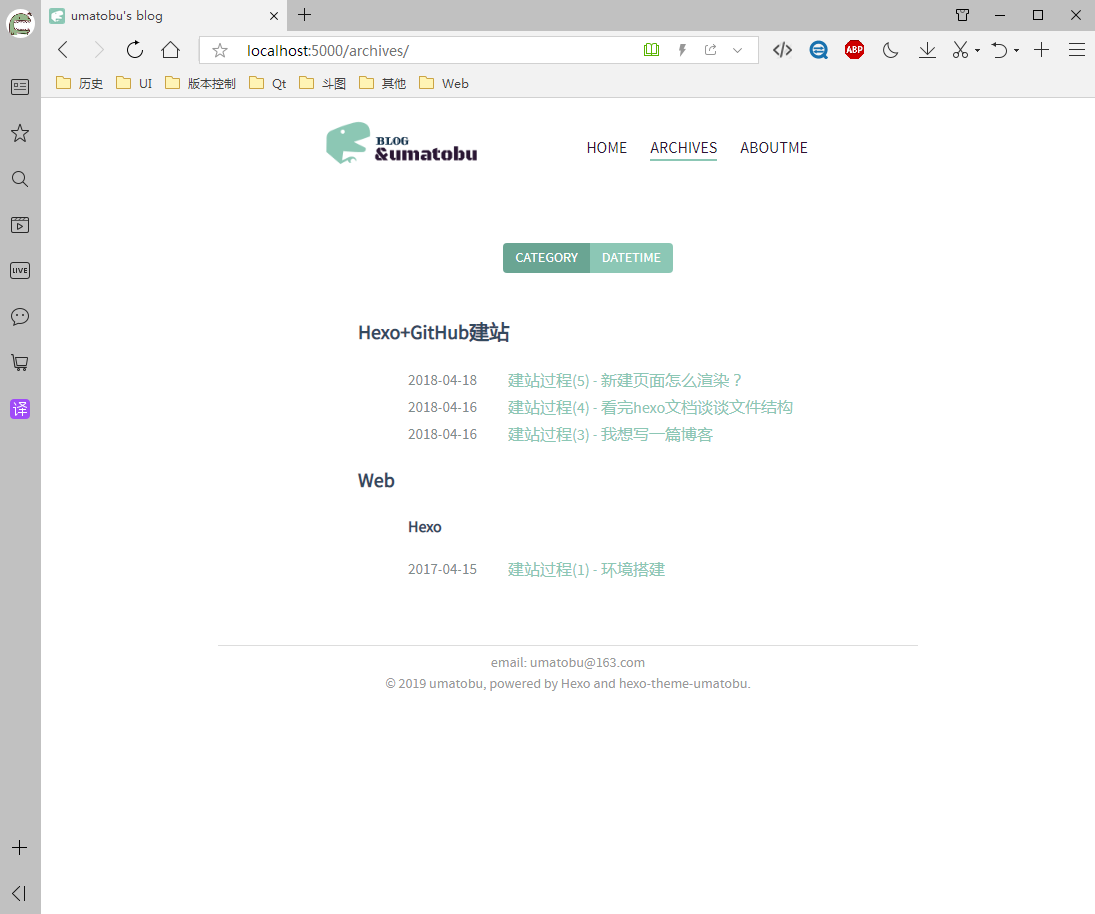
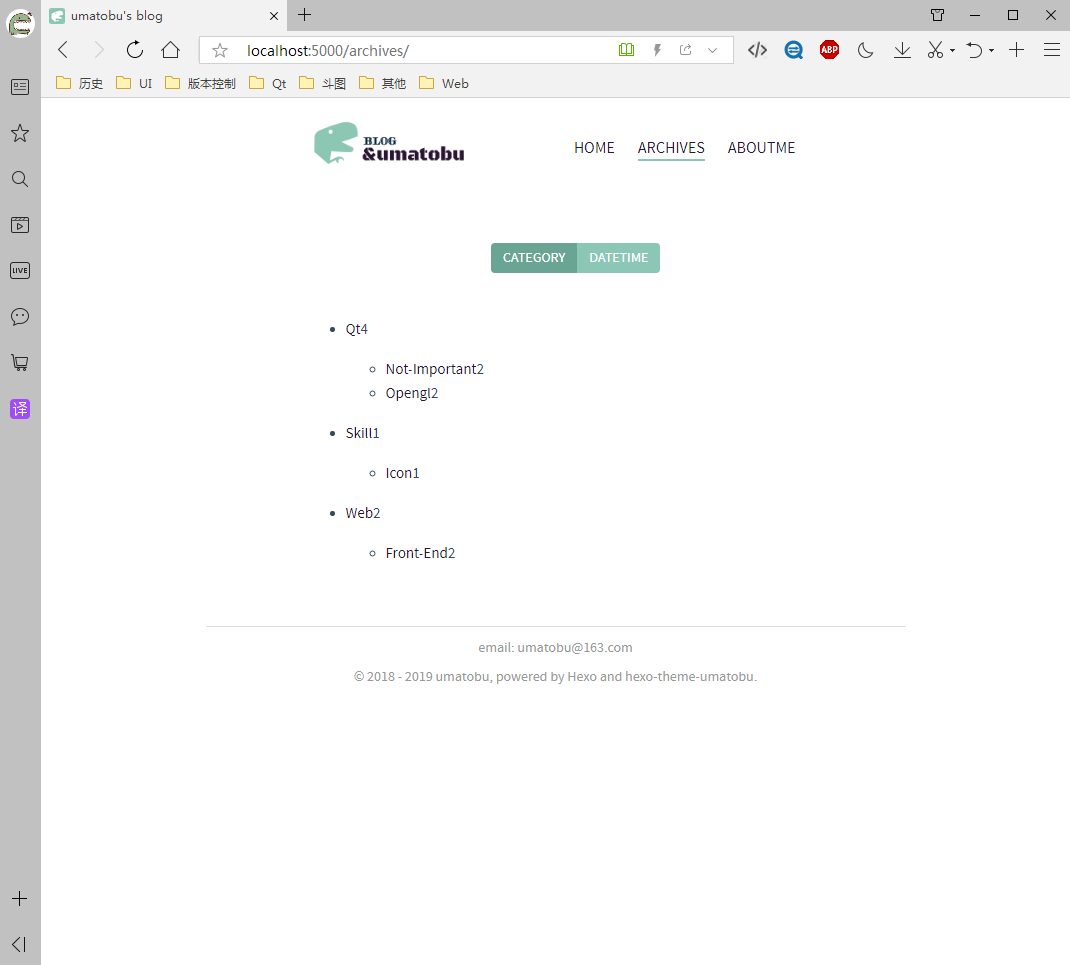
:memo: docs: update show png, add category&archive description 添加展示图片，添加对分类归档页面的说明和教程

diff --git a/README.md b/README.md
@@ -7,6 +7,7 @@
 
 ![hexo-theme-umatobu](./show/show1.png) 
 ![hexo-theme-umatobu](./show/show2.png) 
+![hexo-theme-umatobu](./show/show3.png) 
 
 ## 安装
 
@@ -56,3 +57,9 @@ categories:
 注意：分类归档只支持两级分类。
 
 aboutme页面暂时还未完成，等待后续更新。
+
+##分类归档
+
+如果想达到一下效果，可以看我的博客[Hexo自定义辅助函数和插件编写](https://umatobu.github.io/2018/06/19/Hexo%E8%87%AA%E5%AE%9A%E4%B9%89%E8%BE%85%E5%8A%A9%E5%87%BD%E6%95%B0%E5%92%8C%E6%8F%92%E4%BB%B6%E7%BC%96%E5%86%99/)
+
+![hexo-theme-umatobu](./show/show4.png)
